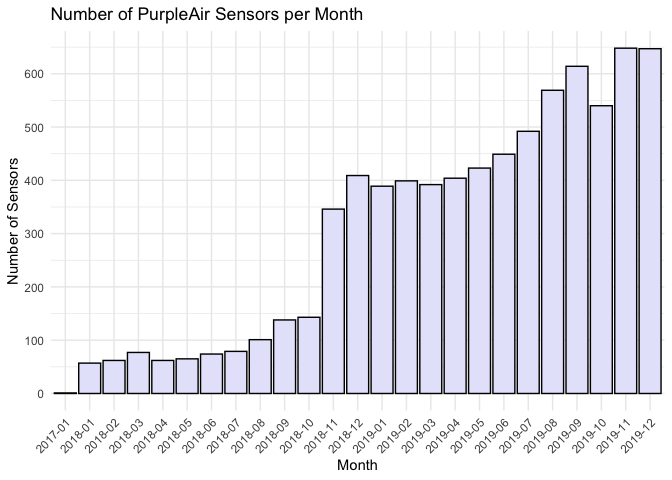
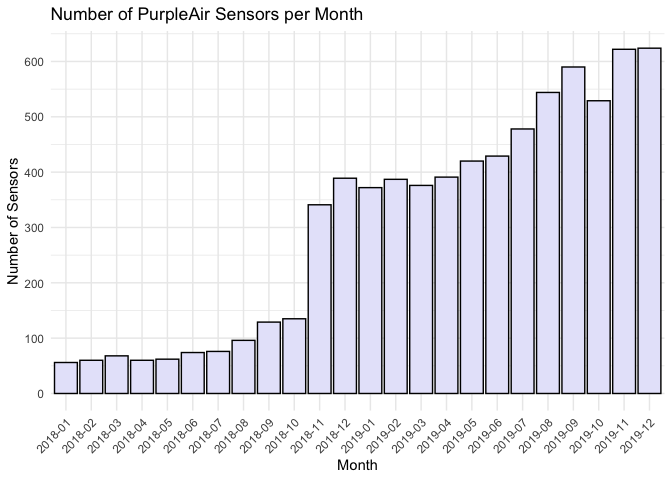
download purple air

diff --git a/DownloadPurpleAirData.md b/DownloadPurpleAirData.md
@@ -2,63 +2,29 @@ DownloadPurpleAirData
 ================
 
 ``` r
-suppressPackageStartupMessages({
-  library(mapview) # For interactive maps
-  library(rjson) # For working with JSON data
-  library(httr) # For making HTTP requests
-  library(sf) # For working with spatial data
-  library(dplyr)
-  library(tidycensus) # For accessing US Census data
-  library(tidyverse) # For data manipulation and visualization
-  library(lubridate) # For working with dates
-  library(ggplot2) # For visualizing data
-  library(magick) # images/gifs
-})
-```
+library(dplyr) # For data manipulation
+library(sf) # For working with spatial data
+library(mapview) # For interactive maps
+library(ggplot2) # For visualizing data
+library(lubridate) # For working with dates
 
-``` r
-# load getPurpleairApiHistoryV2 function from folder it's in 
-source("getPurpleairApiHistory/getPurpleairApiHistoryV2.R")
+# install package from github
+library(devtools)
+suppressMessages({devtools::install_github("heba-razzak/getPurpleairApiHistoryV2")})
+library(getPurpleairApiHistoryV2)
 ```
 
 # Download purple air sensor id, lat, lon, date created, last seen
 
 ``` r
-# Store the URL of the API endpoint to request data from for PurpleAir air quality sensors
-all <- "https://api.purpleair.com/v1/sensors?fields=latitude%2C%20longitude%2C%20date_created%2C%20last_seen"
-
-# Define the API key used to authenticate the user's request to the PurpleAir API
-# auth_key  <- "XXXXXXXX-XXXX-XXXX-XXXX-XXXXXXXXXXXX"
-
-# Define the header for the HTTP request to the API, including the API key and Accept content type
-header = c(
-  'X-API-Key' = auth_key,
-  'Accept' = "application/json"
-)
-
-# Get Purple Air data using the following steps
-# Make the HTTP request to the PurpleAir API using the GET function from the httr library
-# Convert the raw content returned by the API into a character string
-# Convert the character string into a JSON object
-# Extract the "data" element from the JSON object and convert it to a data frame
-result <- GET(all, add_headers(header))
-raw <- rawToChar(result$content)
-json <- jsonlite::fromJSON(raw)
-pa <- as.data.frame(json$data)
-
-# Rename the columns of the PurpleAir data frame
-colnames(pa) <- c("sensor_id","date_created", "last_seen", "lat", "lon")
-
-# convert epoch timestamp to date
-pa$date_created <- as.Date(as.POSIXct(pa$date_created, origin = "1970-01-01"))
-pa$last_seen <- as.Date(as.POSIXct(pa$last_seen, origin = "1970-01-01"))
+pa <- getPurpleairSensors(apiReadKey = auth_key)
 
 # CRS (coordinate reference system)
 crs = 4326
 
 # Convert the PurpleAir data frame to an sf object
 pa <- pa %>% na.omit() 
-dt <- st_as_sf(pa, coords=c("lon", "lat"), crs = crs)
+dt <- st_as_sf(pa, coords=c("longitude", "latitude"), crs = crs)
 head(dt)
 ```
 
@@ -67,13 +33,13 @@ head(dt)
     ## Dimension:     XY
     ## Bounding box:  xmin: -124.1288 ymin: 39.43402 xmax: -104.7324 ymax: 49.16008
     ## Geodetic CRS:  WGS 84
-    ##   sensor_id date_created  last_seen                   geometry
-    ## 1        53   2016-02-04 2024-03-18 POINT (-111.7048 40.24674)
-    ## 2        77   2016-03-02 2024-03-18 POINT (-111.8253 40.75082)
-    ## 3        81   2016-06-11 2024-03-18 POINT (-111.6424 40.28764)
-    ## 4       182   2016-08-01 2024-03-18 POINT (-123.7423 49.16008)
-    ## 5       195   2016-08-01 2024-03-18    POINT (-124.1288 41.06)
-    ## 6       314   2016-09-15 2024-03-18 POINT (-104.7324 39.43402)
+    ##   sensor_index date_created  last_seen                   geometry
+    ## 1           53   2016-02-04 2024-03-20 POINT (-111.7048 40.24674)
+    ## 2           77   2016-03-02 2024-03-20 POINT (-111.8253 40.75082)
+    ## 3           81   2016-06-11 2024-03-20 POINT (-111.6424 40.28764)
+    ## 4          182   2016-08-01 2024-03-20 POINT (-123.7423 49.16008)
+    ## 5          195   2016-08-01 2024-03-20    POINT (-124.1288 41.06)
+    ## 6          314   2016-09-15 2024-03-20 POINT (-104.7324 39.43402)
 
 # Get purple air sensors in san fran area (using bounding box)
 
@@ -100,10 +66,10 @@ mapview(purpleairs_sf)
 ## number of sensors
 
 ``` r
-cat("Total number of sensors: ", length(unique(purpleairs_sf$sensor_id)))
+cat("Total number of sensors: ", length(unique(purpleairs_sf$sensor_index)))
 ```
 
-    ## Total number of sensors:  7485
+    ## Total number of sensors:  7484
 
 ``` r
 # Inputs for purple air function
@@ -114,8 +80,8 @@ average <- "60"
 
 ``` r
 # Date range of historical purple air data
-start_date <- as.Date("2018-01-01")
-end_date <- as.Date("2019-12-31")
+start_date <- as.Date("2019-08-01")
+  end_date <- as.Date("2019-12-31")
 current_date <- start_date
 ```
 
@@ -123,7 +89,6 @@ current_date <- start_date
 # Iterate over each 1 month period
 while (current_date <= end_date) {
   
-  # Calculate next date
   next_date <- current_date + months(1) - days(1)
   
   # Ensure we don't go beyond the end date
@@ -136,14 +101,14 @@ while (current_date <= end_date) {
   start_time <- Sys.time()
   
   filtered_purpleairs_sf <- purpleairs_sf %>% filter(last_seen >= current_date) %>% filter(date_created <= next_date)
-  sensorIndex <- unique(filtered_purpleairs_sf$sensor_id)
+  sensorIndex <- unique(filtered_purpleairs_sf$sensor_index)
   
   # Get the data
   purple_air <- getPurpleairApiHistoryV2(
     sensorIndex=sensorIndex,
     apiReadKey=apiReadKey,
-    startTimeStamp=format(current_date, "%Y-%m-%d %H:%M:%S"),
-    endTimeStamp=format(next_date, "%Y-%m-%d %H:%M:%S"),
+    startDate=current_date,
+    endDate=next_date,
     average=average,
     fields=fields
   )
@@ -162,6 +127,34 @@ while (current_date <= end_date) {
 }
 ```
 
+    ## [1] "Processing: 2019-08-01 - 2019-08-31"
+    ## [1] "Processing time: 2019-08-01 - 2019-08-31"
+    ## Time difference of 1.214052 hours
+    ## [1] "Processing: 2019-09-01 - 2019-09-30"
+    ## [1] "Processing time: 2019-09-01 - 2019-09-30"
+    ## Time difference of 1.326625 hours
+    ## [1] "Processing: 2019-10-01 - 2019-10-31"
+    ## [1] "Processing time: 2019-10-01 - 2019-10-31"
+    ## Time difference of 1.352346 hours
+    ## [1] "Processing: 2019-11-01 - 2019-11-30"
+    ## [1] "Processing time: 2019-11-01 - 2019-11-30"
+    ## Time difference of 1.458355 hours
+    ## [1] "Processing: 2019-12-01 - 2019-12-31"
+    ## [1] "Processing time: 2019-12-01 - 2019-12-31"
+    ## Time difference of 1.485901 hours
+
+``` r
+head(purple_air)
+```
+
+    ##              time_stamp pm2.5_atm pm2.5_atm_a pm2.5_atm_b sensor_index
+    ## 299 2019-12-01 00:00:00    1.8025       2.639       0.966          767
+    ## 298 2019-12-01 01:00:00    1.5510       2.204       0.898          767
+    ## 304 2019-12-01 02:00:00    0.2915       0.539       0.044          767
+    ## 133 2019-12-01 03:00:00    1.3010       1.825       0.777          767
+    ## 303 2019-12-01 04:00:00    0.8570       1.335       0.379          767
+    ## 306 2019-12-01 05:00:00    8.3655      10.362       6.369          767
+
 ``` r
 # Get a list of file paths
 file_paths <- list.files(file_directory, pattern = "purple_air_sanfran_.*.csv", full.names = TRUE)
@@ -176,22 +169,22 @@ fulldata <- do.call(rbind, dfs)
 fulldata$month <- format(as.Date(fulldata$time_stamp), "%Y-%m")
 
 # Sensors for each month
-monthly_sensors <- fulldata %>% select(month, sensor_id) %>% distinct()
+monthly_sensors <- fulldata %>% select(month, sensor_index) %>% distinct()
 head(monthly_sensors)
 ```
 
-    ##     month sensor_id
-    ## 1 2017-01       767
-    ## 2 2018-01       767
-    ## 3 2018-01      1742
-    ## 4 2018-01      1860
-    ## 5 2018-01      1874
-    ## 6 2018-01      2031
+    ##     month sensor_index
+    ## 1 2018-01          767
+    ## 2 2018-01         1742
+    ## 3 2018-01         1860
+    ## 4 2018-01         1874
+    ## 5 2018-01         2031
+    ## 6 2018-01         2574
 
 ``` r
 sensor_counts <- monthly_sensors %>%
   group_by(month) %>%
-  summarise(sensor_count = n_distinct(sensor_id))
+  summarise(sensor_count = n_distinct(sensor_index))
 
 ggplot(sensor_counts, aes(x = month, y = sensor_count)) +
   geom_bar(stat = "identity", fill = "lavender", color = "black") +
